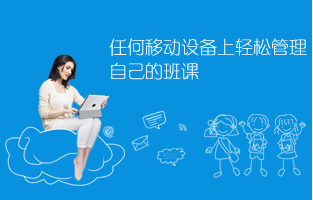
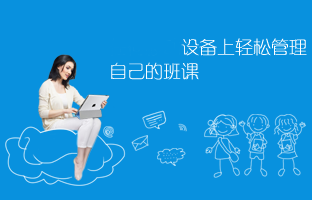
Fix the bug and then change the layout in the 1024x768 in the next version

Changed region(s): [[0.345, 0.18, 0.5751, 0.33]]

diff --git a/src/main/resources/templates/Index.html b/src/main/resources/templates/Index.html
@@ -71,7 +71,7 @@
 					<div class="row">
 						<div class="col-md-4 col-xs-4 col-sm-4">
 							<img th:src="@{/image/index_intro_1.png}" class="img-responsive img-thumbnail introImg">
-							<p class="intro">任何移动设备或 PC 上，您都可以轻松管理自己的班课，管理学生、发送通知、分享资源、布置批改作业、组织讨论答疑、开展教学互动。</p>
+							<p class="intro">您都可以轻松管理自己的班课，管理学生、发送通知、分享资源、布置批改作业、组织讨论答疑、开展教学互动。</p>
 						</div>
 						<div class="col-md-4 col-xs-4 col-sm-4">
 							<img th:src="@{/image/index_intro_2.png}" class="img-responsive img-thumbnail introImg">
@@ -79,24 +79,24 @@
 						</div>
 						<div class="col-md-4 col-xs-4 col-sm-4">
 							<img th:src="@{/image/index_intro_3.png}" class="img-responsive img-thumbnail introImg">
-							<p class="intro">您发布的所有课程信息、学习要求、课件、微视频等学习资源都可以即时传递到学生的移动设备上，从而让学生的移动设备从此变成学习工具，不再只是社交、游戏…</p>
+							<p class="intro">您发布的所有课程信息、学习要求、课件、微视频等学习资源都可以即时传递到学生设备上，从而让学生设备从此变成学习工具，不再只是社交、游戏…</p>
 						</div>
 					</div>
 					</div>
 					<div class="row" style="margin-top: 10px;">
 						<div class="col-md-6 col-xs-6 col-sm-6">
 							<img th:src="@{/image/index_intro_4.png}" class="img-responsive img-thumbnail introImg">
-							<p class="intro">配套蓝墨移动交互式数字教材,可以实现对每位学生学习进度跟踪和学习成效评价，学期末教师可以得到每位学生的数字教材学习评估报告。</p>
+							<p class="intro">配套交互式数字教材,可以实现对每位学生学习进度跟踪和学习成效评价，学期末教师可以得到每位学生的数字教材学习评估报告。</p>
 						</div>
 						<div class="col-md-6 col-xs-6 col-sm-6">
 							<img th:src="@{/image/index_intro_5.png}" class="img-responsive img-thumbnail introImg">
-							<p class="intro">面向移动体验的体验设计，iPhone、iPad、Android 手机和平板电脑都有专属应用，兼有 PC 版。对教师和学生全部免费。</p>
+							<p class="intro">对教师和学生全部免费。</p>
 						</div>
 					</div>
 					<div class="row" style="margin-top: 20px;" id="how_to_use">
 						<div class="col-md-6 col-xs-6 col-sm-6">
 							<h3>如何使用</h3>
-							<p>老师，同学们，我们已经跨入移动互联时代，智能手机、平板电脑、笔记本电脑已经在我们身边普及，我们还需要固定在 PC 前教与学吗？我们还用苦恼教室没有开展课堂互动反馈的设施吗？我们是否想实现即时的沟通分享，但又不愿受到非教学的干扰呢？我们是否想让我们的教、学更轻松、自由、有趣呢？蓝墨云班课，专门为移动环境下的教、学而设计。拿出您的手机，下载安装蓝墨云班课 App，开启您的全新移动教学体验吧！</p>
+							<p>老师，同学们，我们已经跨入互联网时代，电脑已经在我们身边普及。我们还用苦恼教室没有开展课堂互动反馈的设施吗？我们是否想实现即时的沟通分享，但又不愿受到非教学的干扰呢？我们是否想让我们的教、学更轻松、自由、有趣呢？智能班课，专门为PC环境下的教、学而设计。打开PC，开启您的全新教学体验吧！</p>
 						</div>
 						<div class="col-md-6 col-xs-6 col-sm-6">
 							<video width="320" height="240" controls="controls" th:src="@{/intro.mp4}"></video>
@@ -106,7 +106,7 @@
 						<div class="col-md-6 col-xs-6 col-sm-6" id="school_server">
 							<img th:src="@{/image/index_server_1.png}" class="img-responsive img-thumbnail">
 							<h3><img th:src="@{/image/index_server_3.png}"></h3>
-							<p>为学校提供移动学习中心定制服务和教学大数据分析服务。</p>
+							<p>为学校提供学习中心定制服务。</p>
 						</div>
 						<div class="col-md-6 col-xs-6 col-sm-6" id="user_report">
 							<img th:src="@{/image/index_server_2.png}" class="img-responsive img-thumbnail">

diff --git a/src/main/resources/templates/Courseware.html b/src/main/resources/templates/Courseware.html
@@ -76,8 +76,9 @@
                 $(rowIds).each(function (index,id){
                     var data = $("#course_ware_list").jqGrid("getRowData", id);
                     var courseWareId=data.courseWareId;
-                    window.location.href="/SmartOnlineCourse/course_ware_download/"+courseWareId;
-                    console.log("1");
+                    var url="/SmartOnlineCourse/course_ware_download/"+courseWareId;
+                    /*window.location.href="/SmartOnlineCourse/course_ware_download/"+courseWareId;*/
+                    window.open(url);
                 });
             }
         }

diff --git a/src/main/java/spark/smartonlinecourse/schedule/ScheduleService.java b/src/main/java/spark/smartonlinecourse/schedule/ScheduleService.java
@@ -16,7 +16,29 @@ public class ScheduleService {
 
     @Autowired
     private Scheduler scheduler;
+    /*
+     *    六个或七个单元
+     * 秒 分 时 月中天 月份 月中星期几 (年)
+     * 秒，分，时，天
+     * 字段 允许值 允许的特殊字符
+        秒 0-59 , - * /
+        分 0-59 , - * /
+        小时 0-23 , - * /
+        日期 1-31 , - * ? / L W C
+        月份 1-12 或者 JAN-DEC , - * /
+        星期 1-7 或者 SUN-SAT , - * ? / L C #
+        年（可选） 留空, 1970-2099 , - * /
 
+     * 符号说明
+        星号：表示任意时刻
+        问号：只能在日或周字段上使用，简单的理解就是日期和星期是有冲突的，指定其中一个的话，另外一个是没办法指定的，比如每个月12号和每个星期二，这两个是"互斥"的，不能用日期和周来指定所有“每个是星期二的12号”这个时间。
+        减号：范围，如 1-5秒
+        逗号：列表，如 1,5,10 秒
+        斜杠：等步长序列，如3/13秒 表示 3,16,29,42,55,3,16...
+        L：仅在日和周上支持，表示允许的最后一个值，注意不要让范围和列表与L连用
+        W：工作日
+        井号：为给定月份指定具体的工作日实例。把“MON#2”放在周内日期字段中，表示把任务安排在当月的第二个星期一。
+     */
     public void homeworkMessageSchedule() throws Exception{
         JobDetail jobDetail=JobBuilder.newJob(HomeworkMessageSchedule.class).build();
         CronScheduleBuilder scheduleBuilder= CronScheduleBuilder.cronSchedule("0 0 1 * * ?")

diff --git a/src/test/java/spark/smartonlinecourse/dao/CourseMapperTest.java b/src/test/java/spark/smartonlinecourse/dao/CourseMapperTest.java
@@ -39,6 +39,7 @@ public class CourseMapperTest {
     @Autowired
     private ChooseCourseMapper chooseCourseMapper;
 
+    @Ignore
     @Test
     public void courseTest(){
         Integer avgScoreInt=chooseCourseMapper.selectAvgScore(1);
